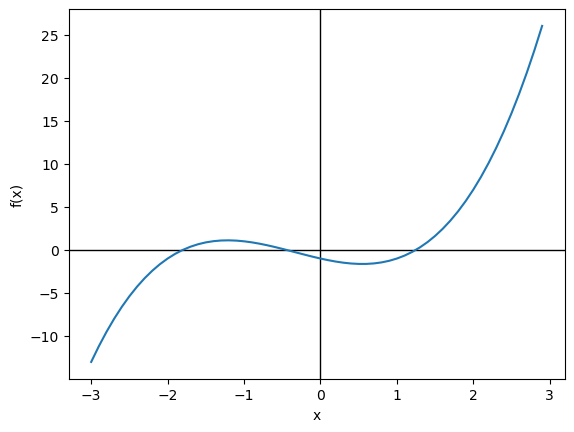
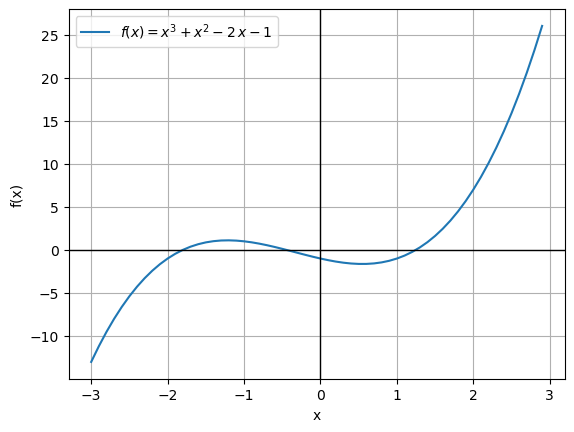
improves plotting code for newton

diff --git a/docs/notebooks/4-controls.html b/docs/notebooks/4-controls.html
@@ -294,7 +294,7 @@ window.Quarto = {
     <div>
     <div class="quarto-title-meta-heading">Veröffentlichungsdatum</div>
     <div class="quarto-title-meta-contents">
-      <p class="date">10. November 2025</p>
+      <p class="date">11. November 2025</p>
     </div>
   </div>
   
@@ -1006,18 +1006,23 @@ i=2, j=2</code></pre>
 <p><em>Hinweis</em>: Da das Verfahren nicht immer konvergiert, sollten Sie eine maximale Zahl an Iterationen festlegen und danach das Verfahren abbrechen.</p>
 </div>
 <p>Wir erzeugen zunächst einen Plot der Funktion (den Code hierzu müssen Sie noch nicht nachvollziehen können):</p>
-<div id="7de2f963-5511-4220-85af-c8882c4bd2d6" class="cell" data-execution_count="84">
+<div id="7de2f963-5511-4220-85af-c8882c4bd2d6" class="cell" data-execution_count="6">
 <details class="code-fold">
 <summary>Code</summary>
 <div class="sourceCode cell-code" id="cb71"><pre class="sourceCode python code-with-copy"><code class="sourceCode python"><span id="cb71-1"><a href="#cb71-1" aria-hidden="true" tabindex="-1"></a><span class="im">import</span> matplotlib.pyplot <span class="im">as</span> plt</span>
 <span id="cb71-2"><a href="#cb71-2" aria-hidden="true" tabindex="-1"></a><span class="im">import</span> numpy <span class="im">as</span> np</span>
-<span id="cb71-3"><a href="#cb71-3" aria-hidden="true" tabindex="-1"></a>xs <span class="op">=</span> np.arange(<span class="op">-</span><span class="dv">3</span>,<span class="dv">3</span>,<span class="fl">0.1</span>)</span>
-<span id="cb71-4"><a href="#cb71-4" aria-hidden="true" tabindex="-1"></a>ys <span class="op">=</span> xs<span class="op">**</span><span class="dv">3</span> <span class="op">+</span> xs<span class="op">**</span><span class="dv">2</span> <span class="op">-</span> <span class="dv">2</span><span class="op">*</span>xs<span class="op">-</span><span class="dv">1</span></span>
-<span id="cb71-5"><a href="#cb71-5" aria-hidden="true" tabindex="-1"></a>plt.axhline(<span class="dv">0</span>, color<span class="op">=</span><span class="st">"black"</span>, linewidth<span class="op">=</span><span class="dv">1</span>)  <span class="co"># x-Achse</span></span>
-<span id="cb71-6"><a href="#cb71-6" aria-hidden="true" tabindex="-1"></a>plt.axvline(<span class="dv">0</span>, color<span class="op">=</span><span class="st">"black"</span>, linewidth<span class="op">=</span><span class="dv">1</span>)  <span class="co"># y-Achse</span></span>
-<span id="cb71-7"><a href="#cb71-7" aria-hidden="true" tabindex="-1"></a>plt.xlabel(<span class="st">"x"</span>)</span>
-<span id="cb71-8"><a href="#cb71-8" aria-hidden="true" tabindex="-1"></a>plt.ylabel(<span class="st">"f(x)"</span>)</span>
-<span id="cb71-9"><a href="#cb71-9" aria-hidden="true" tabindex="-1"></a>plt.plot(xs,ys,label<span class="op">=</span><span class="st">"$f(x)=x^3+x^2-2\,x-3$"</span>)</span></code><button title="In die Zwischenablage kopieren" class="code-copy-button"><i class="bi"></i></button></pre></div>
+<span id="cb71-3"><a href="#cb71-3" aria-hidden="true" tabindex="-1"></a>xs <span class="op">=</span> np.arange(<span class="op">-</span><span class="dv">3</span>, <span class="dv">3</span>, <span class="fl">0.1</span>)</span>
+<span id="cb71-4"><a href="#cb71-4" aria-hidden="true" tabindex="-1"></a>ys <span class="op">=</span> xs<span class="op">**</span><span class="dv">3</span> <span class="op">+</span> xs<span class="op">**</span><span class="dv">2</span> <span class="op">-</span> <span class="dv">2</span> <span class="op">*</span> xs<span class="op">-</span><span class="dv">1</span></span>
+<span id="cb71-5"><a href="#cb71-5" aria-hidden="true" tabindex="-1"></a>plt.plot(xs, ys, label<span class="op">=</span><span class="st">"$f(x)=x^3+x^2-2\,x-1$"</span>)</span>
+<span id="cb71-6"><a href="#cb71-6" aria-hidden="true" tabindex="-1"></a></span>
+<span id="cb71-7"><a href="#cb71-7" aria-hidden="true" tabindex="-1"></a>plt.axhline(<span class="dv">0</span>, color<span class="op">=</span><span class="st">"black"</span>, linewidth<span class="op">=</span><span class="dv">1</span>)  <span class="co"># x-Achse</span></span>
+<span id="cb71-8"><a href="#cb71-8" aria-hidden="true" tabindex="-1"></a>plt.axvline(<span class="dv">0</span>, color<span class="op">=</span><span class="st">"black"</span>, linewidth<span class="op">=</span><span class="dv">1</span>)  <span class="co"># y-Achse</span></span>
+<span id="cb71-9"><a href="#cb71-9" aria-hidden="true" tabindex="-1"></a>plt.xlabel(<span class="st">"x"</span>)</span>
+<span id="cb71-10"><a href="#cb71-10" aria-hidden="true" tabindex="-1"></a>plt.ylabel(<span class="st">"f(x)"</span>)</span>
+<span id="cb71-11"><a href="#cb71-11" aria-hidden="true" tabindex="-1"></a>plt.legend()</span>
+<span id="cb71-12"><a href="#cb71-12" aria-hidden="true" tabindex="-1"></a>plt.grid(<span class="va">True</span>)</span>
+<span id="cb71-13"><a href="#cb71-13" aria-hidden="true" tabindex="-1"></a></span>
+<span id="cb71-14"><a href="#cb71-14" aria-hidden="true" tabindex="-1"></a>plt.show()</span></code><button title="In die Zwischenablage kopieren" class="code-copy-button"><i class="bi"></i></button></pre></div>
 </details>
 <div class="cell-output cell-output-display">
 <div>

diff --git a/docs/notebooks/0-einleitung.html b/docs/notebooks/0-einleitung.html
@@ -259,7 +259,7 @@ pre > code.sourceCode > span > a:first-child::before { text-decoration: underlin
     <div>
     <div class="quarto-title-meta-heading">Veröffentlichungsdatum</div>
     <div class="quarto-title-meta-contents">
-      <p class="date">10. November 2025</p>
+      <p class="date">11. November 2025</p>
     </div>
   </div>
   

diff --git a/docs/notebooks/6-sequences.html b/docs/notebooks/6-sequences.html
@@ -266,7 +266,7 @@ pre > code.sourceCode > span > a:first-child::before { text-decoration: underlin
     <div>
     <div class="quarto-title-meta-heading">Veröffentlichungsdatum</div>
     <div class="quarto-title-meta-contents">
-      <p class="date">10. November 2025</p>
+      <p class="date">11. November 2025</p>
     </div>
   </div>
   

diff --git a/docs/notebooks/8-oop.html b/docs/notebooks/8-oop.html
@@ -274,7 +274,7 @@ pre > code.sourceCode > span > a:first-child::before { text-decoration: underlin
     <div>
     <div class="quarto-title-meta-heading">Veröffentlichungsdatum</div>
     <div class="quarto-title-meta-contents">
-      <p class="date">10. November 2025</p>
+      <p class="date">11. November 2025</p>
     </div>
   </div>
   

diff --git a/docs/index.html b/docs/index.html
@@ -211,7 +211,7 @@ ul.task-list li input[type="checkbox"] {
     <div>
     <div class="quarto-title-meta-heading">Veröffentlichungsdatum</div>
     <div class="quarto-title-meta-contents">
-      <p class="date">10. November 2025</p>
+      <p class="date">11. November 2025</p>
     </div>
   </div>
   

diff --git a/docs/notebooks/1-prep.html b/docs/notebooks/1-prep.html
@@ -220,7 +220,7 @@ ul.task-list li input[type="checkbox"] {
     <div>
     <div class="quarto-title-meta-heading">Veröffentlichungsdatum</div>
     <div class="quarto-title-meta-contents">
-      <p class="date">10. November 2025</p>
+      <p class="date">11. November 2025</p>
     </div>
   </div>
   

diff --git a/docs/notebooks/2-basics.html b/docs/notebooks/2-basics.html
@@ -284,7 +284,7 @@ window.Quarto = {
     <div>
     <div class="quarto-title-meta-heading">Veröffentlichungsdatum</div>
     <div class="quarto-title-meta-contents">
-      <p class="date">10. November 2025</p>
+      <p class="date">11. November 2025</p>
     </div>
   </div>
   

diff --git a/docs/notebooks/3-datatypes.html b/docs/notebooks/3-datatypes.html
@@ -300,7 +300,7 @@ window.Quarto = {
     <div>
     <div class="quarto-title-meta-heading">Veröffentlichungsdatum</div>
     <div class="quarto-title-meta-contents">
-      <p class="date">10. November 2025</p>
+      <p class="date">11. November 2025</p>
     </div>
   </div>
   

diff --git a/docs/notebooks/5-functions.html b/docs/notebooks/5-functions.html
@@ -309,7 +309,7 @@ window.Quarto = {
     <div>
     <div class="quarto-title-meta-heading">Veröffentlichungsdatum</div>
     <div class="quarto-title-meta-contents">
-      <p class="date">10. November 2025</p>
+      <p class="date">11. November 2025</p>
     </div>
   </div>
   

diff --git a/docs/notebooks/7-bibs.html b/docs/notebooks/7-bibs.html
@@ -300,7 +300,7 @@ window.Quarto = {
     <div>
     <div class="quarto-title-meta-heading">Veröffentlichungsdatum</div>
     <div class="quarto-title-meta-contents">
-      <p class="date">10. November 2025</p>
+      <p class="date">11. November 2025</p>
     </div>
   </div>
   
